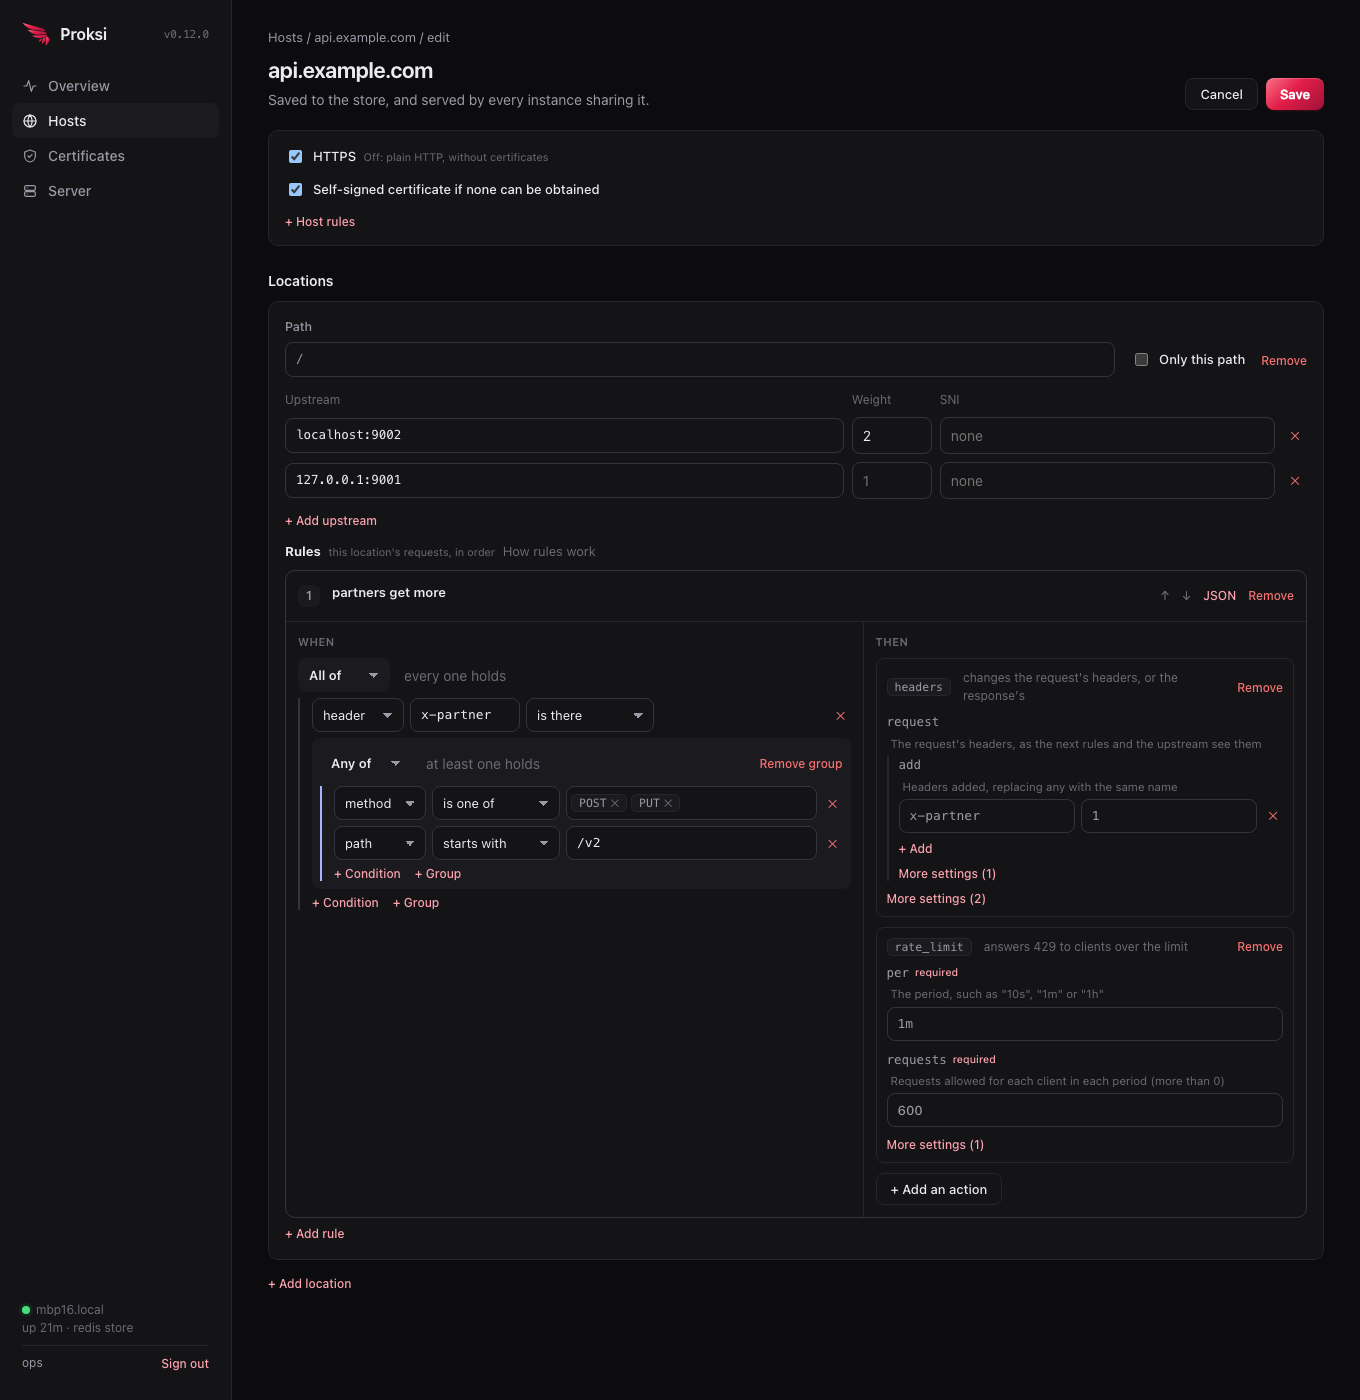
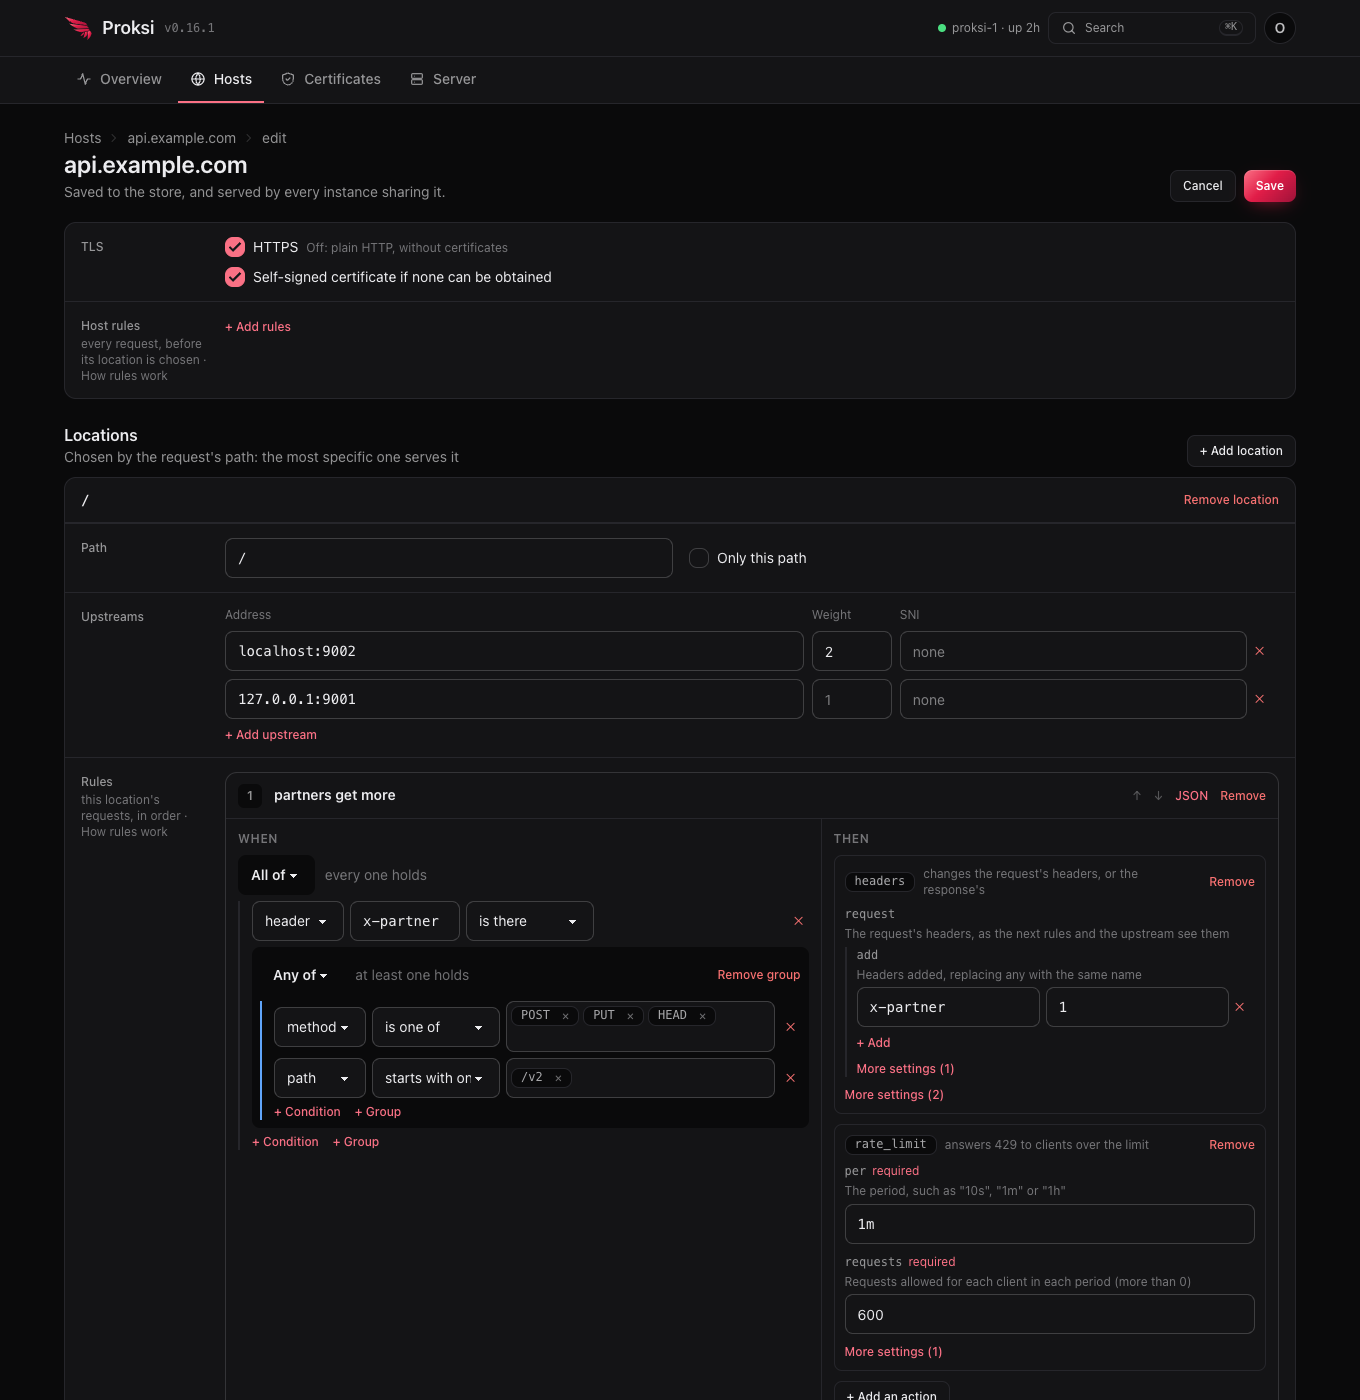
docs: show the admin UI as it looks now, and introduce it in the README

diff --git a/README.md b/README.md
@@ -68,9 +68,14 @@ Of the many features Proksi offers is the ability to load balance to your infras
 - Hosts with their own ports, plain HTTP hosts (e.g. behind another load balancer) and a catch-all host
 - Running many servers with the same routes and certificates (Redis, SQLite, Postgres)
 - TCP proxying for anything that isn't HTTP, with or without TLS
+- An **admin UI**: live traffic from clients to upstreams, the latest requests, and hosts and their rules to add and change
 - Configuration through **HCL** with support for functions (get environment variables, etc)
 - Powerful plugin system for adding new middlewares and other features using **WebAssembly (WASM)**
 - Many others.
+
+<img src="./docs/assets/admin/live-traffic.png" alt="The admin UI: a host's traffic as it happens, from clients to its locations and upstreams, with each one's requests a second, latency and errors" width="900">
+
+See the [admin UI documentation](https://docs.proksi.info/admin-ui) for a tour of its pages.
 
 # Quick start
 
